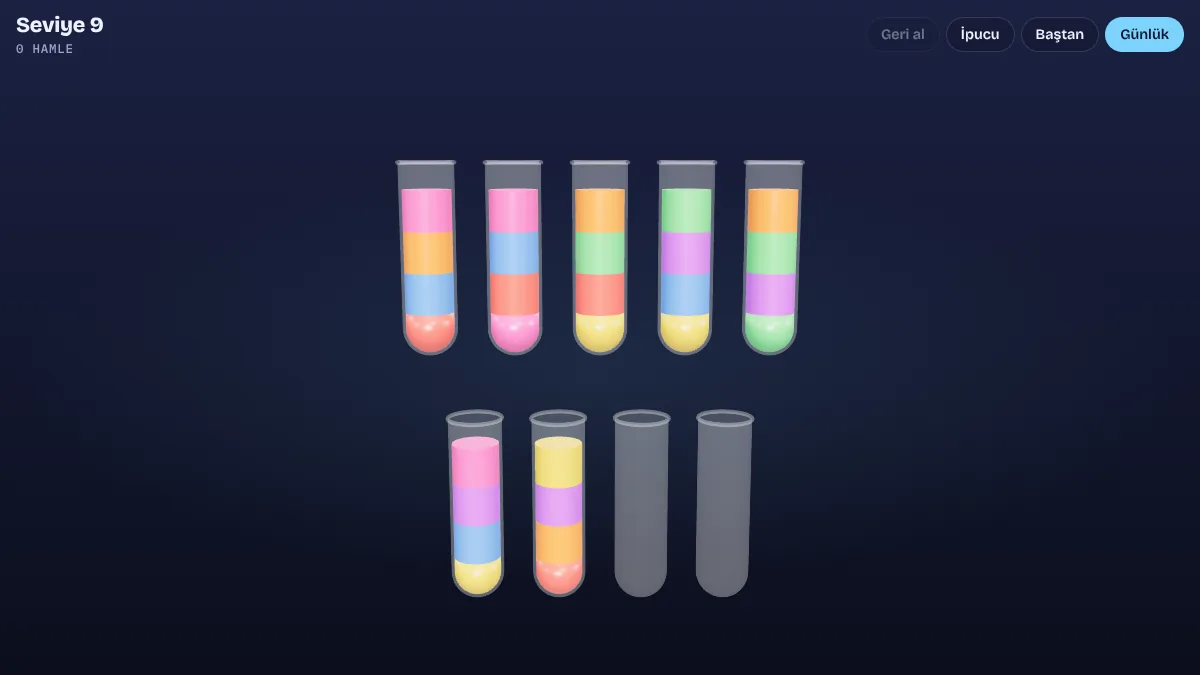
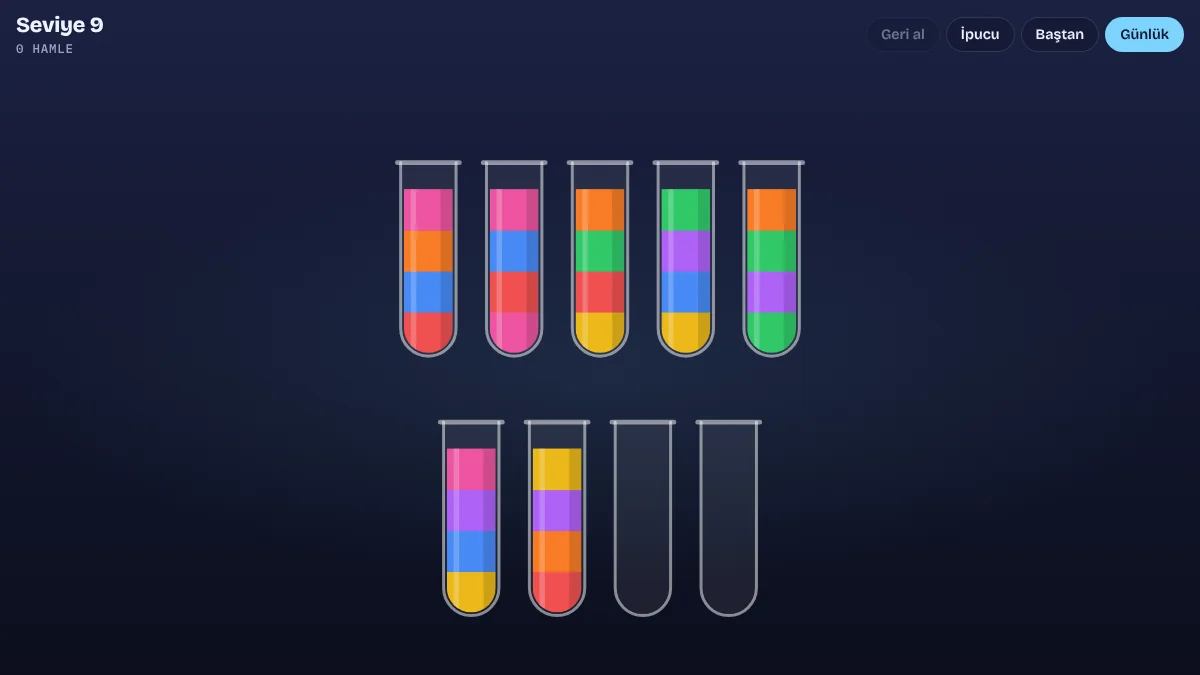
Update suloop on the Games page for its 2D version
New screenshot and description: the game is now drawn in 2D without
three.js.

Claude-Session: https://claude.ai/code/session_01HjyMGH5rNH38yywavupRzh

Changed region(s): [[0.3083, 0.2178, 0.6783, 0.5289], [0.37, 0.5911, 0.6475, 0.9333]]

diff --git a/src/content/games/suloop.md b/src/content/games/suloop.md
@@ -1,13 +1,13 @@
 ---
 title: suloop
-subtitle: 3D water sort puzzle
+subtitle: Water sort puzzle
 play: https://mifarosa.com/suloop/
 repo: https://github.com/mifarosa/suloop
 icon: /games/suloop.png
 cover: /games/suloop-cover.webp
-tags: [JavaScript, three.js, Vite]
+tags: [JavaScript, Canvas, Vite]
 order: 1
 ---
 Pour coloured water between glass tubes until each tube holds a single colour. Tap a tube to pick it up, then tap another to pour. Liquid only goes into an empty tube or onto the same colour.
 
-The levels never run out. They start with three colours and add one every two levels, and a solver checks every level before you see it, so each one can be solved. A daily puzzle is the same for everyone. Undo, restart and hints are there when you get stuck. The tubes are rendered in 3D with three.js, and the game runs on phones and computers and remembers your level. Turkish interface.
+The levels never run out. They start with three colours and add one every two levels, and a solver checks every level before you see it, so each one can be solved. A daily puzzle is the same for everyone. Undo, restart and hints are there when you get stuck. It is drawn on a plain canvas with no libraries, so it stays light and smooth on phones, and it remembers your level. Turkish interface.
